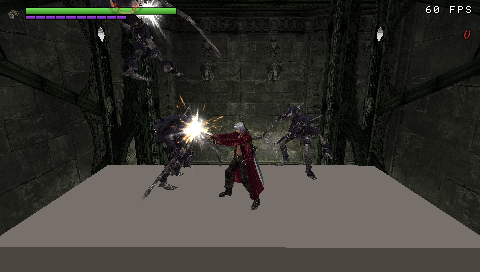
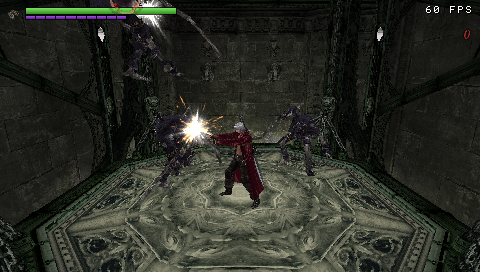
The Jester stays on his platform; README shows the real Surge of Fortunas lift

Changed region(s): [[0.0, 0.3529, 1.0, 1.0], [0.2812, 0.3235, 0.3438, 0.4706], [0.2812, 0.4706, 0.3125, 0.5294]]

diff --git a/psp/testroom/enemy.c b/psp/testroom/enemy.c
@@ -2205,6 +2205,7 @@ static void goyle_hit(HitKind kind, float from_x, float from_z) {
  * (3500, 492, 3500), is from his set-up (FUN_005331d0). */
 #define JESTER_HEALTH (ENEMY_HEALTH * 1500 / 250)
 #define JESTER_STUN_HITS 12.0f
+#define JESTER_ARENA 1400.0f   /* how far from the arena's centre he may go (its floor runs to 1550) */
 enum { J_IDLE, J_WALK, J_CANE, J_CANE2, J_BOMB, J_VANISH, J_APPEAR, J_TAUNT, J_FLINCH, J_STUN, J_LAUNCHED, J_DEATH };
 /* jsNN, in tools/prepare_skinned_model.py's order: [3] 0-2, [4] 3-20, [5] 21-29, [6] 30-33, [19] 34-40. */
 static const signed char jester_motion_index[] = {21, 3, 8, 9, 10, 26, 26, 31, 5, 14, 4, 16};
@@ -2343,7 +2344,15 @@ static void jester_update(float f, float px, float py, float pz) {
     default:
         jester_state(J_IDLE);
     }
-    if (e->action != J_VANISH && e->action != J_LAUNCHED) e->pos[1] = e->floor_y;
+    /* His arena is a square platform, +-1550 cm about (3500, 3500) at 492, with nothing past its edge: he stays
+     * on it (teleports and walks included), on its floor. */
+    if (e->pos[0] < 3500.0f - JESTER_ARENA) e->pos[0] = 3500.0f - JESTER_ARENA;
+    if (e->pos[0] > 3500.0f + JESTER_ARENA) e->pos[0] = 3500.0f + JESTER_ARENA;
+    if (e->pos[2] < 3500.0f - JESTER_ARENA) e->pos[2] = 3500.0f - JESTER_ARENA;
+    if (e->pos[2] > 3500.0f + JESTER_ARENA) e->pos[2] = 3500.0f + JESTER_ARENA;
+    if (!floor_under(e->pos[0], e->pos[1], e->pos[2], &g)) g = 492.0f;
+    e->floor_y = g;
+    if (e->action != J_VANISH) e->pos[1] = e->floor_y;
 }
 
 static void jester_hit(HitKind kind) {

diff --git a/docs/ENEMY_SPECS.md b/docs/ENEMY_SPECS.md
@@ -726,7 +726,8 @@ are moves picked by `FUN_00536b10`/`00536c70`/`00536dd0` (a random one of three)
 
 **In the port** (`psp/testroom/enemy.c`, "The Jester"): a stand-in fight on his model (cut to 1,656 triangles)
 and motions. He walks in and swings (one or two swings), lobs three bombs that roll at Dante (the Gigapede's
-rolling orb), vanishes in a puff and reappears behind Dante, and dances. Hits fill a stun gauge (12, draining
+rolling orb), vanishes in a puff and reappears behind Dante, and dances. He stays on his square platform (±1550 cm about (3500, 3500); held to ±1400), teleports
+included. Hits fill a stun gauge (12, draining
 slowly); stunned for 200 frames he takes double damage. Which motion plays for each was chosen from their
 shapes and lengths [inferred]: idle js21, walk js03, swings js08/js09, bombs js10, vanish js26, dance js31,
 flinch js05, stun js14, launched js04, death js16. Health 1500 against the Pride's 250 [estimate].

diff --git a/README.md b/README.md
@@ -39,7 +39,7 @@ stored in this repository.
 | ![Mission 5, the Jester](docs/screenshots/mission5_jester.png) | ![Mission 5, Agni & Rudra](docs/screenshots/mission5_agni_rudra.png) |
 | Mission 5: the Jester, in his arena | Mission 5: Agni & Rudra |
 | ![Mission 5, Surge of Fortunas](docs/screenshots/mission5_lift.png) | |
-| Mission 5: the Surge of Fortunas lift, with a wave dropped onto it (the platform is a stand-in) | |
+| Mission 5: the Surge of Fortunas lift, the room's own model, with a wave dropped onto it | |
 
 ### Menus
 
